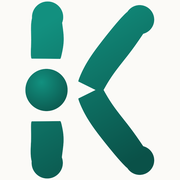
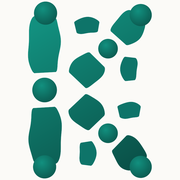
fix(website): use the full Kandidat A brand mark everywhere, not the invented small cut
Nav and footer were rendering mark_a_small() (a simplified, unauthorized
4-mass geometry) instead of the decided weight-corrected Kandidat A mark
(mark_a(), 13 masses) shown in wortbildmarke-forschung.html. Swap both
components and the favicon export pipeline to the full cut, add a binding
DESIGN.md section documenting Kandidat A as the one decided Wortbildmarke
so future sessions have no discretion to reintroduce the small cut, and
regenerate the favicon rasters from the corrected source.

diff --git a/DESIGN.md b/DESIGN.md
@@ -326,4 +326,52 @@ Every standard markdown output element inside an article body (`.prose` in `Cont
 - Do not introduce a second theme/dark mode — one committed theme for now. `amber-soft` is a chip/badge tint, not a section ground; it must never replace `ground-page`/`ground-zone` as a page or section background.
 - Do not put amber on `button-primary`/`button-secondary`, links, or nav — those stay petrol so primary actions keep one unambiguous accent.
 - Do not assign amber (or any hue) per Themenbereich as a category-color scheme — it doesn't scale as topic areas are added; differentiate Themenbereiche by content/position, not by a growing color palette.
+
+## 8. Wortbildmarke
+
+This section is binding, not descriptive. It exists because the wrong mark shipped
+live twice before this was written down — once as an invented "small cut" nobody
+decided on. Read it before touching any brand-mark file.
+
+**There is exactly one decided Wortbildmarke: Kandidat A, weight-corrected.** Source of
+truth is `packages/content/design/wortbildmarke-generate.py`, function `mark_a()` — a
+textured, 13-mass, 10-stroke/7-node "K" geometry. The weight correction ("Gewichtskorrektur")
+exists specifically so this SAME full-detail geometry holds up at every size the site
+actually uses it at, nav and footer included — see the comparison at 24px/40px/56px in
+`packages/content/design/wortbildmarke-forschung.html`, "Kandidat A · Gewichtskorrektur",
+Runde 4.
+
+**Use it everywhere, at every size ≥24px, with no alternate cut.** Exported files:
+`export/mark-light.svg` (light ground) and `export/mark-dark.svg` (dark ground, footer),
+both `viewBox="7.57 3.17 66 93.66"` — aspect ratio width:height = 66 : 93.66 ≈ **0.7046**.
+Any CSS sizing a `<Fragment set:html={...} />` of these must derive width from height
+times 0.7046 (or vice versa), never an approximated or rounded ratio.
+
+**Do not invent or reintroduce a simplified "small cut."** The generator also contains
+`mark_a_small()` and the export script writes `mark-small-light.svg`/`mark-small-dark.svg`
+from it — a structurally different, 4-mass simplified geometry with viewBox
+`4.73 1.12 71.58 97.77` (ratio ≈ 0.7322). This is not an approved alternate for small
+sizes. It was used live in Nav/Footer/favicons in an earlier session without real sign-off,
+renders as a smooth rounded blob barely readable as a "K," and was corrected on
+2026-08-20. If a future session is tempted to reach for it because the full cut looks
+noisy at very small pixel sizes (see below), that temptation is the bug, not the fix —
+raise the sizing problem instead of quietly swapping geometry.
+
+**Known open tension: raster favicons at 16×16px.** The full Kandidat-A cut's texture
+(13 masses, fine Fugen) is close to the legibility limit at a true 16×16px raster —
+`favicon-16.png` reads as soft/noisy at that size, `favicon-32.png` is legible but not
+crisp. This is a real, disclosed trade-off, not a silently accepted defect: the
+alternative (falling back to `mark_a_small()` for favicons only) was deliberately
+rejected because it would let the "invent a small cut" pattern back in through a side
+door. If this needs revisiting, it should be solved by generating a genuinely new,
+purpose-built low-resolution glyph reduction (fewer masses, same silhouette logic,
+explicitly scoped to "favicon raster only") and documenting it here as a named,
+decided exception — not by reaching for `mark_a_small()`.
+
+**Favicon raster pipeline**: `packages/content/design/wortbildmarke-export.py` renders
+`mark-light.svg` at 768px via `rsvg-convert`, then Lanczos-downsamples to each target
+size (16/32/48/180) — never a naive direct-size SVG rasterisation. Re-run that script
+and copy its `export/favicon-*.png`, `export/apple-touch-icon-180.png`, and
+`export/mark-light.svg` (→ `public/favicon.svg`) into `packages/website/public/`
+whenever the generator geometry changes.
 - Do not load fonts from Google Fonts CDN.
